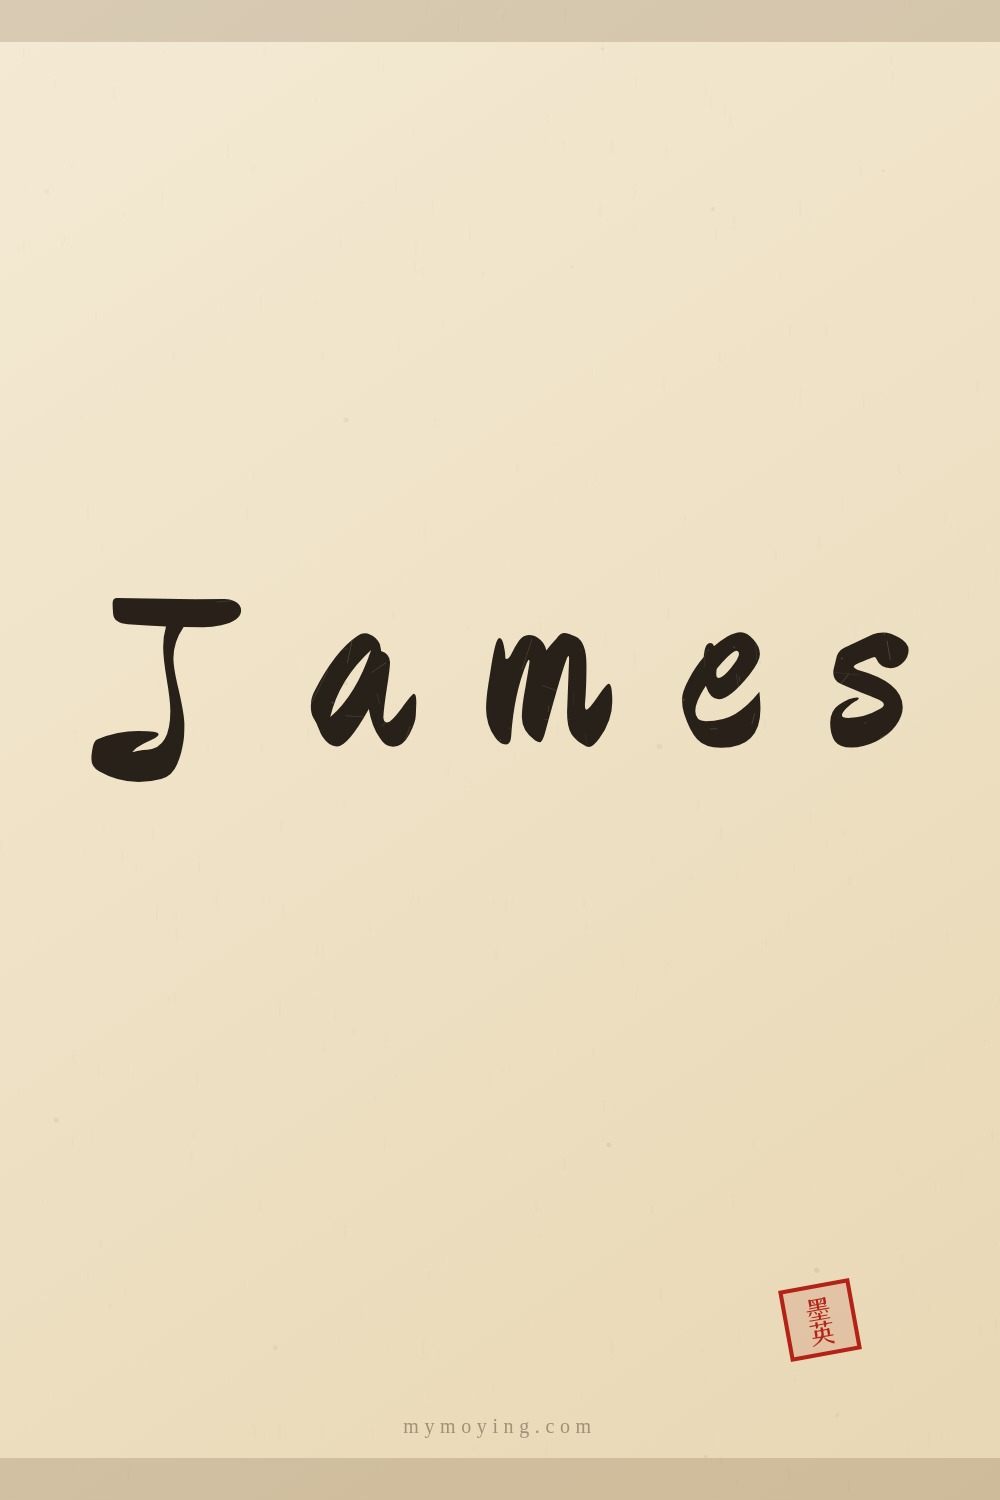
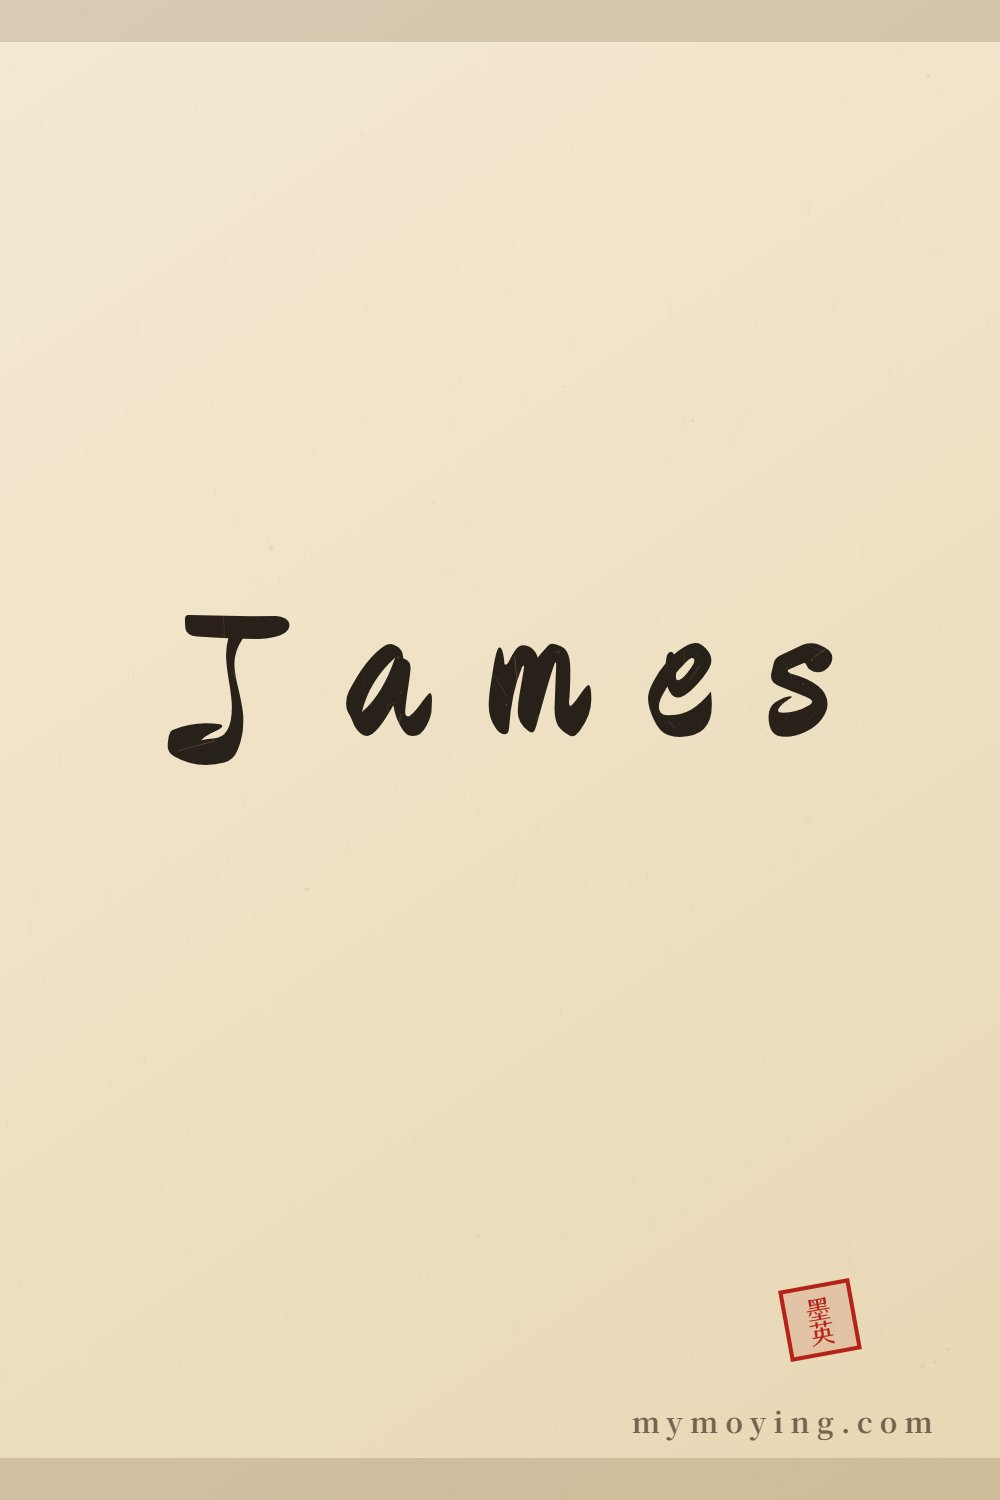
pins：16 张 pin 换成 JPEG，落地页 og:image 指向 .jpg
PNG 版 1000x1500 每张约 1.1MB、合计 17.3MB；转成 JPEG 后合计 0.48MB（最大
37KB，最小 26KB），约为原来的 36 分之一。尺寸仍是 1000x1500，没有裁切、没有
改构图，只换编码。

- 删掉 pins/ 下 16 个 .png，新增 16 个同名 .jpg。
- 16 个落地页的 og:image / twitter:image 从 .png 改成 .jpg（每页只动这 2 行，
  og:image:width / height 仍是 1000 / 1500）。
- 四个引导页的图按页面实际演示的文字重画：Emma、Strength、Love、Family。
- index.html 仍然用 og.png；terms / privacy / 404 / sitemap / robots 都没动。

注意一处重名：pins/emma.jpg、ethan.jpg、james.jpg、olivia.jpg、sophia.jpg 这 5
个文件名和更早那批 batch1 的 pin 重名，本次被新图覆盖（同一个渲染器、同一个名字、
同样的纸墨和印章，只是字号和右下角水印不同）。pins/batch1.csv 引用的正是这些
路径。batch1 其余 7 张（ava / liam / lucas / luna / mia / noah / oliver）没动。

diff --git a/meaning-of-chinese-characters.html b/meaning-of-chinese-characters.html
@@ -11,13 +11,13 @@
   <meta property="og:url" content="https://mymoying.com/meaning-of-chinese-characters" />
   <meta property="og:title" content="Meaning of Popular Chinese Characters for Gifts | Moying" />
   <meta property="og:description" content="Meanings of popular Chinese characters for gifts — 福 fortune, 爱 love, 安 peace, 寿 longevity and more, with pinyin and plain-English meanings, plus brush-calligraphy artwork you can print." />
-  <meta property="og:image" content="https://mymoying.com/pins/meaning-of-chinese-characters.png" />
+  <meta property="og:image" content="https://mymoying.com/pins/meaning-of-chinese-characters.jpg" />
   <meta property="og:image:width" content="1000" />
   <meta property="og:image:height" content="1500" />
   <meta name="twitter:card" content="summary_large_image" />
   <meta name="twitter:title" content="Meaning of Popular Chinese Characters for Gifts | Moying" />
   <meta name="twitter:description" content="Meanings of popular Chinese characters for gifts — 福 fortune, 爱 love, 安 peace, 寿 longevity and more, with pinyin and plain-English meanings, plus brush-calligraphy artwork you can print." />
-  <meta name="twitter:image" content="https://mymoying.com/pins/meaning-of-chinese-characters.png" />
+  <meta name="twitter:image" content="https://mymoying.com/pins/meaning-of-chinese-characters.jpg" />
   <link rel="stylesheet" href="styles.css" />
 </head>
 <body data-text="Love">

diff --git a/chinese-calligraphy-tattoo-ideas.html b/chinese-calligraphy-tattoo-ideas.html
@@ -11,13 +11,13 @@
   <meta property="og:url" content="https://mymoying.com/chinese-calligraphy-tattoo-ideas" />
   <meta property="og:title" content="Chinese Calligraphy Tattoo Ideas | Moying" />
   <meta property="og:description" content="Chinese calligraphy tattoo ideas — preview names and words in brush style before you commit, and get a clean image for your artist. Always verify the characters with a native speaker first." />
-  <meta property="og:image" content="https://mymoying.com/pins/chinese-calligraphy-tattoo-ideas.png" />
+  <meta property="og:image" content="https://mymoying.com/pins/chinese-calligraphy-tattoo-ideas.jpg" />
   <meta property="og:image:width" content="1000" />
   <meta property="og:image:height" content="1500" />
   <meta name="twitter:card" content="summary_large_image" />
   <meta name="twitter:title" content="Chinese Calligraphy Tattoo Ideas | Moying" />
   <meta name="twitter:description" content="Chinese calligraphy tattoo ideas — preview names and words in brush style before you commit, and get a clean image for your artist. Always verify the characters with a native speaker first." />
-  <meta name="twitter:image" content="https://mymoying.com/pins/chinese-calligraphy-tattoo-ideas.png" />
+  <meta name="twitter:image" content="https://mymoying.com/pins/chinese-calligraphy-tattoo-ideas.jpg" />
   <link rel="stylesheet" href="styles.css" />
 </head>
 <body data-text="Strength">

diff --git a/name-in-chinese-calligraphy.html b/name-in-chinese-calligraphy.html
@@ -11,13 +11,13 @@
   <meta property="og:url" content="https://mymoying.com/name-in-chinese-calligraphy" />
   <meta property="og:title" content="Your Name in Chinese Calligraphy | Moying" />
   <meta property="og:description" content="See your English name written in Chinese brush calligraphy. Free watermarked preview, five brush styles, and a clean high-resolution download." />
-  <meta property="og:image" content="https://mymoying.com/pins/name-in-chinese-calligraphy.png" />
+  <meta property="og:image" content="https://mymoying.com/pins/name-in-chinese-calligraphy.jpg" />
   <meta property="og:image:width" content="1000" />
   <meta property="og:image:height" content="1500" />
   <meta name="twitter:card" content="summary_large_image" />
   <meta name="twitter:title" content="Your Name in Chinese Calligraphy | Moying" />
   <meta name="twitter:description" content="See your English name written in Chinese brush calligraphy. Free watermarked preview, five brush styles, and a clean high-resolution download." />
-  <meta name="twitter:image" content="https://mymoying.com/pins/name-in-chinese-calligraphy.png" />
+  <meta name="twitter:image" content="https://mymoying.com/pins/name-in-chinese-calligraphy.jpg" />
   <link rel="stylesheet" href="styles.css" />
 </head>
 <body data-text="Emma">

diff --git a/custom-chinese-name-gift.html b/custom-chinese-name-gift.html
@@ -11,13 +11,13 @@
   <meta property="og:url" content="https://mymoying.com/custom-chinese-name-gift" />
   <meta property="og:title" content="Custom Chinese Name Gift | Moying" />
   <meta property="og:description" content="Create a custom Chinese calligraphy gift from a name or word. Preview it free, download a clean high-resolution image, and print or frame it yourself." />
-  <meta property="og:image" content="https://mymoying.com/pins/custom-chinese-name-gift.png" />
+  <meta property="og:image" content="https://mymoying.com/pins/custom-chinese-name-gift.jpg" />
   <meta property="og:image:width" content="1000" />
   <meta property="og:image:height" content="1500" />
   <meta name="twitter:card" content="summary_large_image" />
   <meta name="twitter:title" content="Custom Chinese Name Gift | Moying" />
   <meta name="twitter:description" content="Create a custom Chinese calligraphy gift from a name or word. Preview it free, download a clean high-resolution image, and print or frame it yourself." />
-  <meta name="twitter:image" content="https://mymoying.com/pins/custom-chinese-name-gift.png" />
+  <meta name="twitter:image" content="https://mymoying.com/pins/custom-chinese-name-gift.jpg" />
   <link rel="stylesheet" href="styles.css" />
 </head>
 <body data-text="Family">

diff --git a/michael.html b/michael.html
@@ -11,13 +11,13 @@
   <meta property="og:url" content="https://mymoying.com/michael" />
   <meta property="og:title" content="Michael in Chinese Calligraphy | Moying" />
   <meta property="og:description" content="See how the name Michael looks in Chinese brush calligraphy, plus the Chinese transliteration 迈克尔 (Màikè'ěr). Free preview and clean download." />
-  <meta property="og:image" content="https://mymoying.com/pins/michael.png" />
+  <meta property="og:image" content="https://mymoying.com/pins/michael.jpg" />
   <meta property="og:image:width" content="1000" />
   <meta property="og:image:height" content="1500" />
   <meta name="twitter:card" content="summary_large_image" />
   <meta name="twitter:title" content="Michael in Chinese Calligraphy | Moying" />
   <meta name="twitter:description" content="See how the name Michael looks in Chinese brush calligraphy, plus the Chinese transliteration 迈克尔 (Màikè'ěr). Free preview and clean download." />
-  <meta name="twitter:image" content="https://mymoying.com/pins/michael.png" />
+  <meta name="twitter:image" content="https://mymoying.com/pins/michael.jpg" />
   <link rel="stylesheet" href="styles.css" />
 </head>
 <body data-text="Michael">

diff --git a/olivia.html b/olivia.html
@@ -11,13 +11,13 @@
   <meta property="og:url" content="https://mymoying.com/olivia" />
   <meta property="og:title" content="Olivia in Chinese Calligraphy | Moying" />
   <meta property="og:description" content="See how the name Olivia looks in Chinese brush calligraphy, plus the Chinese transliteration 奥利维亚 (Àolìwéiyà). Free preview and clean download." />
-  <meta property="og:image" content="https://mymoying.com/pins/olivia.png" />
+  <meta property="og:image" content="https://mymoying.com/pins/olivia.jpg" />
   <meta property="og:image:width" content="1000" />
   <meta property="og:image:height" content="1500" />
   <meta name="twitter:card" content="summary_large_image" />
   <meta name="twitter:title" content="Olivia in Chinese Calligraphy | Moying" />
   <meta name="twitter:description" content="See how the name Olivia looks in Chinese brush calligraphy, plus the Chinese transliteration 奥利维亚 (Àolìwéiyà). Free preview and clean download." />
-  <meta name="twitter:image" content="https://mymoying.com/pins/olivia.png" />
+  <meta name="twitter:image" content="https://mymoying.com/pins/olivia.jpg" />
   <link rel="stylesheet" href="styles.css" />
 </head>
 <body data-text="Olivia">

diff --git a/sophia.html b/sophia.html
@@ -11,13 +11,13 @@
   <meta property="og:url" content="https://mymoying.com/sophia" />
   <meta property="og:title" content="Sophia in Chinese Calligraphy | Moying" />
   <meta property="og:description" content="See how the name Sophia looks in Chinese brush calligraphy, plus the Chinese transliteration 索菲娅 (Suǒfēiyà). Free preview and clean download." />
-  <meta property="og:image" content="https://mymoying.com/pins/sophia.png" />
+  <meta property="og:image" content="https://mymoying.com/pins/sophia.jpg" />
   <meta property="og:image:width" content="1000" />
   <meta property="og:image:height" content="1500" />
   <meta name="twitter:card" content="summary_large_image" />
   <meta name="twitter:title" content="Sophia in Chinese Calligraphy | Moying" />
   <meta name="twitter:description" content="See how the name Sophia looks in Chinese brush calligraphy, plus the Chinese transliteration 索菲娅 (Suǒfēiyà). Free preview and clean download." />
-  <meta name="twitter:image" content="https://mymoying.com/pins/sophia.png" />
+  <meta name="twitter:image" content="https://mymoying.com/pins/sophia.jpg" />
   <link rel="stylesheet" href="styles.css" />
 </head>
 <body data-text="Sophia">

diff --git a/dream.html b/dream.html
@@ -11,13 +11,13 @@
   <meta property="og:url" content="https://mymoying.com/dream" />
   <meta property="og:title" content="Dream in Chinese Calligraphy | Moying" />
   <meta property="og:description" content="See the word Dream written in Chinese brush calligraphy, and learn the characters 梦 (mèng) and 梦想 (mèngxiǎng). Free preview and clean download." />
-  <meta property="og:image" content="https://mymoying.com/pins/dream.png" />
+  <meta property="og:image" content="https://mymoying.com/pins/dream.jpg" />
   <meta property="og:image:width" content="1000" />
   <meta property="og:image:height" content="1500" />
   <meta name="twitter:card" content="summary_large_image" />
   <meta name="twitter:title" content="Dream in Chinese Calligraphy | Moying" />
   <meta name="twitter:description" content="See the word Dream written in Chinese brush calligraphy, and learn the characters 梦 (mèng) and 梦想 (mèngxiǎng). Free preview and clean download." />
-  <meta name="twitter:image" content="https://mymoying.com/pins/dream.png" />
+  <meta name="twitter:image" content="https://mymoying.com/pins/dream.jpg" />
   <link rel="stylesheet" href="styles.css" />
 </head>
 <body data-text="Dream">

diff --git a/emma.html b/emma.html
@@ -11,13 +11,13 @@
   <meta property="og:url" content="https://mymoying.com/emma" />
   <meta property="og:title" content="Emma in Chinese Calligraphy | Moying" />
   <meta property="og:description" content="See how the name Emma looks in Chinese brush calligraphy, plus the Chinese transliteration 艾玛 (Àimǎ). Free preview and clean high-resolution download." />
-  <meta property="og:image" content="https://mymoying.com/pins/emma.png" />
+  <meta property="og:image" content="https://mymoying.com/pins/emma.jpg" />
   <meta property="og:image:width" content="1000" />
   <meta property="og:image:height" content="1500" />
   <meta name="twitter:card" content="summary_large_image" />
   <meta name="twitter:title" content="Emma in Chinese Calligraphy | Moying" />
   <meta name="twitter:description" content="See how the name Emma looks in Chinese brush calligraphy, plus the Chinese transliteration 艾玛 (Àimǎ). Free preview and clean high-resolution download." />
-  <meta name="twitter:image" content="https://mymoying.com/pins/emma.png" />
+  <meta name="twitter:image" content="https://mymoying.com/pins/emma.jpg" />
   <link rel="stylesheet" href="styles.css" />
 </head>
 <body data-text="Emma">

diff --git a/james.html b/james.html
@@ -11,13 +11,13 @@
   <meta property="og:url" content="https://mymoying.com/james" />
   <meta property="og:title" content="James in Chinese Calligraphy | Moying" />
   <meta property="og:description" content="See how the name James looks in Chinese brush calligraphy, plus the Chinese transliteration 詹姆斯 (Zhānmǔsī). Free preview and clean download." />
-  <meta property="og:image" content="https://mymoying.com/pins/james.png" />
+  <meta property="og:image" content="https://mymoying.com/pins/james.jpg" />
   <meta property="og:image:width" content="1000" />
   <meta property="og:image:height" content="1500" />
   <meta name="twitter:card" content="summary_large_image" />
   <meta name="twitter:title" content="James in Chinese Calligraphy | Moying" />
   <meta name="twitter:description" content="See how the name James looks in Chinese brush calligraphy, plus the Chinese transliteration 詹姆斯 (Zhānmǔsī). Free preview and clean download." />
-  <meta name="twitter:image" content="https://mymoying.com/pins/james.png" />
+  <meta name="twitter:image" content="https://mymoying.com/pins/james.jpg" />
   <link rel="stylesheet" href="styles.css" />
 </head>
 <body data-text="James">

diff --git a/grace.html b/grace.html
@@ -11,13 +11,13 @@
   <meta property="og:url" content="https://mymoying.com/grace" />
   <meta property="og:title" content="Grace in Chinese Calligraphy | Moying" />
   <meta property="og:description" content="See how the name Grace looks in Chinese brush calligraphy, plus the Chinese transliteration 格蕾丝 (Géléisī). Free preview and clean download." />
-  <meta property="og:image" content="https://mymoying.com/pins/grace.png" />
+  <meta property="og:image" content="https://mymoying.com/pins/grace.jpg" />
   <meta property="og:image:width" content="1000" />
   <meta property="og:image:height" content="1500" />
   <meta name="twitter:card" content="summary_large_image" />
   <meta name="twitter:title" content="Grace in Chinese Calligraphy | Moying" />
   <meta name="twitter:description" content="See how the name Grace looks in Chinese brush calligraphy, plus the Chinese transliteration 格蕾丝 (Géléisī). Free preview and clean download." />
-  <meta name="twitter:image" content="https://mymoying.com/pins/grace.png" />
+  <meta name="twitter:image" content="https://mymoying.com/pins/grace.jpg" />
   <link rel="stylesheet" href="styles.css" />
 </head>
 <body data-text="Grace">

diff --git a/peace.html b/peace.html
@@ -11,13 +11,13 @@
   <meta property="og:url" content="https://mymoying.com/peace" />
   <meta property="og:title" content="Peace in Chinese Calligraphy | Moying" />
   <meta property="og:description" content="See the word Peace written in Chinese brush calligraphy, and learn the characters 和平 (hépíng) and 安 (ān). Free preview and clean download." />
-  <meta property="og:image" content="https://mymoying.com/pins/peace.png" />
+  <meta property="og:image" content="https://mymoying.com/pins/peace.jpg" />
   <meta property="og:image:width" content="1000" />
   <meta property="og:image:height" content="1500" />
   <meta name="twitter:card" content="summary_large_image" />
   <meta name="twitter:title" content="Peace in Chinese Calligraphy | Moying" />
   <meta name="twitter:description" content="See the word Peace written in Chinese brush calligraphy, and learn the characters 和平 (hépíng) and 安 (ān). Free preview and clean download." />
-  <meta name="twitter:image" content="https://mymoying.com/pins/peace.png" />
+  <meta name="twitter:image" content="https://mymoying.com/pins/peace.jpg" />
   <link rel="stylesheet" href="styles.css" />
 </head>
 <body data-text="Peace">
